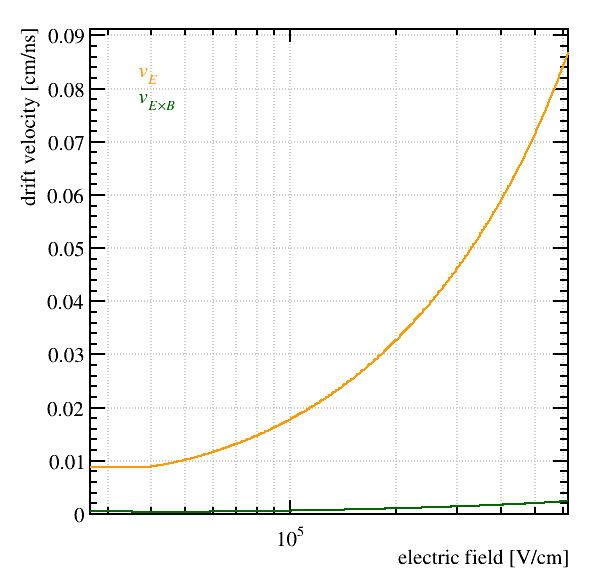
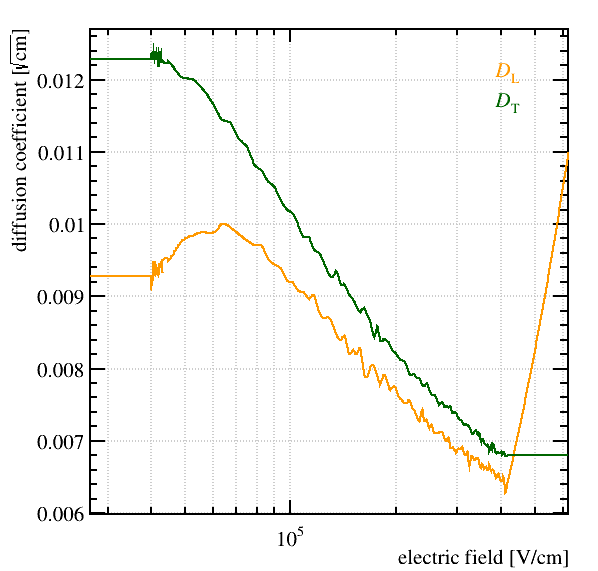
oldGT_Plot

diff --git a/claude_workspace/Generator_GasFile/Merge/read.py b/claude_workspace/Generator_GasFile/Merge/read.py
@@ -20,14 +20,14 @@ cD = ROOT.TCanvas('cD', '', 600, 600)
 view.SetCanvas(cD)
 view.PlotElectronDiffusion()
 cD.Update()
-cV.SaveAs('plots/PlotElectronDiffusion.png')
+cD.SaveAs('plots/PlotElectronDiffusion.png')
 
 
 cT = ROOT.TCanvas('cT', '', 600, 600)
 view.SetCanvas(cT)
 view.PlotElectronTownsend()
 cT.Update()
-cV.SaveAs('plots/PlotElectronTownsend.png')
+cT.SaveAs('plots/PlotElectronTownsend.png')
 
 cA = ROOT.TCanvas('cA', '', 600, 600)
 view.SetCanvas(cA)
